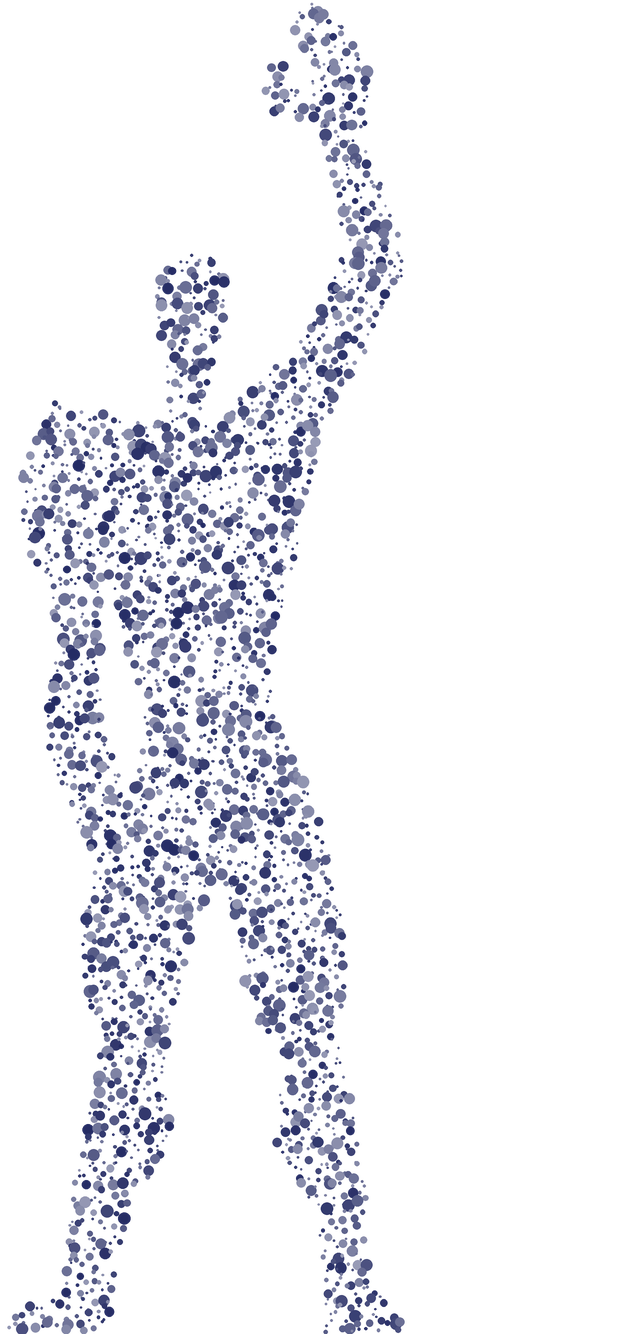
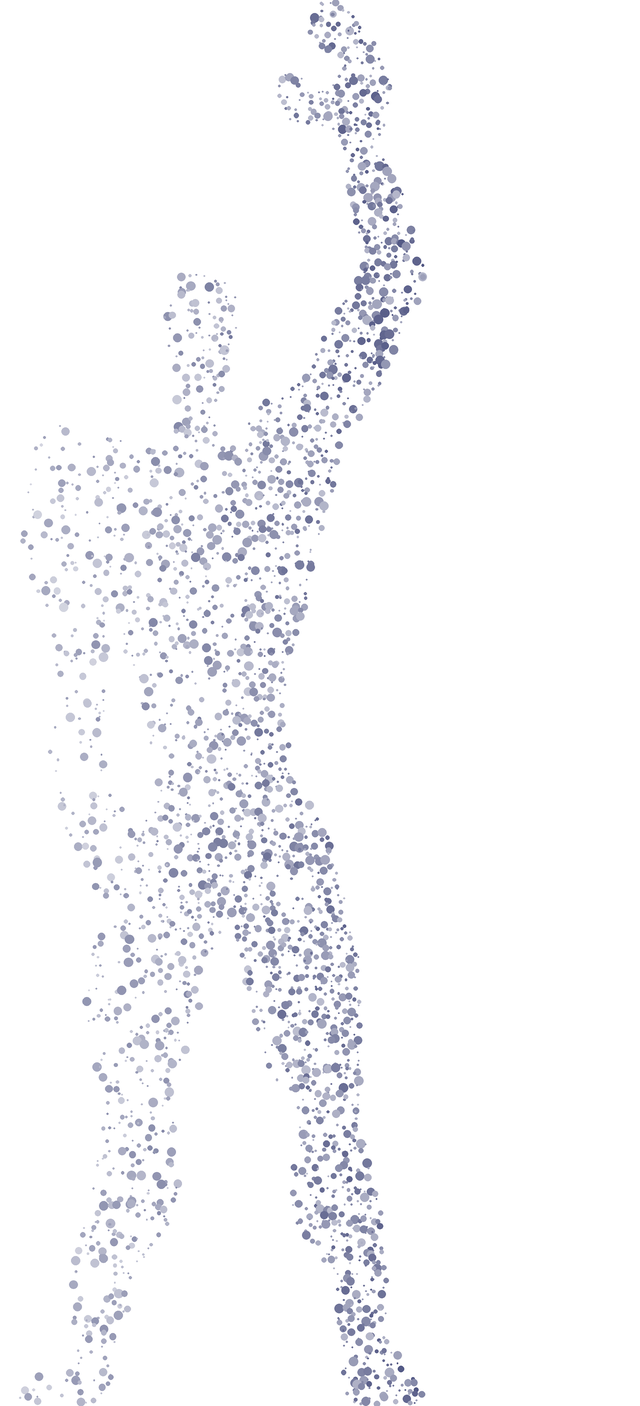
Two-segment arm, dithered fade, golden-section plate
- 팔을 상완/전완 2단 관절로 분리해 회전 (_src/tools/make_modulor.py)
  상완 0/-17/-38/-62°, 전완은 팔꿈치에서 반대로 42% 되돌려 손이 늦게 내려옴
  → 막대기처럼 돌던 이전보다 관절이 접히는 느낌
- 페이드를 CSS 마스크에서 하프톤 생성 단계로 이동
  왼쪽일수록 점을 확률적으로 솎아내고(keep = .12 + .88·x^1.05) 알파도 낮춤
  → 매끄러운 그라디언트가 아니라 점이 흩어지며 사라지는 디더링
  점 밀도도 2,700 → 3,200개로 올림 (격자 8.4 → 5.6)
- 인체를 수직선 쪽으로 90px 이동 (이제 축과 26px 겹침)
- 배경 플레이트 추가: 축을 오른쪽 변으로 삼는 황금 사각형, 내부 정사각형,
  황금나선 첫 사분원, 대각선 2개, 노드 높이의 등록 십자 8개
- 스크롤 잠금 640 → 380ms, 누적 임계 42 → 34px

Changed region(s): [[0.0, 0.0, 0.6562, 1.0]]

diff --git a/assets/js/hero.js b/assets/js/hero.js
@@ -52,11 +52,52 @@
     gridEl.className = 'hero-grid';
     gridEl.setAttribute('aria-hidden', 'true');
     heroEl.prepend(gridEl);
+    const pl = document.createElementNS('http://www.w3.org/2000/svg', 'svg');
+    pl.setAttribute('class', 'hero-plate');
+    pl.setAttribute('aria-hidden', 'true');
+    heroEl.prepend(pl);
     const fg = document.createElement('div');
     fg.className = 'hero-figure';
     fg.setAttribute('aria-hidden', 'true');
     heroEl.prepend(fg);
   }
+  /* ---------- 배경 플레이트: 황금분할 작도 ---------- */
+  function drawPlate() {
+    const pl = heroEl && heroEl.querySelector('.hero-plate');
+    if (!pl) return;
+    const hb = heroEl.getBoundingClientRect();
+    const rr = rail.getBoundingClientRect();
+    const W = hb.width, H = hb.height;
+    const cx = rr.left - hb.left + rr.width / 2;
+    const top = rr.top - hb.top, RH = rr.height;
+    pl.setAttribute('viewBox', `0 0 ${W} ${H}`);
+    pl.setAttribute('width', W); pl.setAttribute('height', H);
+
+    const p = [];
+    /* 축을 오른쪽 변으로 삼는 황금 사각형 */
+    const gw = RH / PHI;
+    p.push(`<rect class="pl-rect" x="${cx - gw}" y="${top}" width="${gw}" height="${RH}"/>`);
+    /* 그 안의 정사각형과 남는 φ 사각형 */
+    const sq = Math.min(gw, RH);
+    p.push(`<rect class="pl-rect thin" x="${cx - gw}" y="${top}" width="${gw}" height="${gw}"/>`);
+    /* 정사각형에서 뻗는 사분원 — 황금나선의 첫 획 */
+    p.push(`<path class="pl-arc" d="M ${cx - gw} ${top + gw} A ${gw} ${gw} 0 0 0 ${cx} ${top}"/>`);
+    /* 대각선 */
+    p.push(`<line class="pl-diag" x1="${cx - gw}" y1="${top}" x2="${cx}" y2="${top + RH}"/>`);
+    p.push(`<line class="pl-diag" x1="${cx - gw}" y1="${top + RH}" x2="${cx}" y2="${top}"/>`);
+    /* 축 오른쪽 — 미디어 쪽 φ 사각형 */
+    const rw = Math.min(W - cx - 8, RH / PHI);
+    p.push(`<rect class="pl-rect thin" x="${cx}" y="${top}" width="${rw}" height="${RH}"/>`);
+    /* 노드 높이마다 작은 등록 십자 */
+    M.pos.forEach((q) => {
+      const y = top + q * RH;
+      [cx - gw, cx + rw].forEach(x => {
+        p.push(`<path class="pl-cross" d="M ${x - 3} ${y} H ${x + 3} M ${x} ${y - 3} V ${y + 3}"/>`);
+      });
+    });
+    pl.innerHTML = p.join('');
+  }
+
   function drawGrid() {
     if (!gridEl || !heroEl) return;
     const hr = heroEl.getBoundingClientRect();
@@ -97,7 +138,7 @@
     host.style.height = h + 'px';
     host.style.width  = w + 'px';
     host.style.top    = (rr.top - hb.top - rr.height * 0.02) + 'px';
-    host.style.left   = (rr.left - hb.left - w - 64) + 'px';
+    host.style.left   = (rr.left - hb.left - w + 26) + 'px';
   }
 
   /* ---------- 가운데 레일 ---------- */
@@ -250,7 +291,7 @@
     const step = down => {
       lock = true; acc = 0;
       go(cur + (down ? 1 : -1));
-      setTimeout(() => { lock = false; }, 640);
+      setTimeout(() => { lock = false; }, 380);
     };
     addEventListener('wheel', e => {
       if (scrollY > 2) return;                      // 히어로를 벗어나면 일반 스크롤
@@ -260,7 +301,7 @@
       e.preventDefault();
       if (lock) return;
       acc += e.deltaY;
-      if (Math.abs(acc) < 42) return;               // 관성 스크롤로 건너뛰지 않게
+      if (Math.abs(acc) < 34) return;               // 관성 스크롤로 건너뛰지 않게
       step(down);
     }, { passive: false });
 
@@ -277,7 +318,7 @@
     }, { passive: false });
   }
 
-  drawArcs(); drawGrid(); drawFigure(); apply();
-  if (window.ResizeObserver) new ResizeObserver(() => { drawArcs(); drawGrid(); drawFigure(); apply(); }).observe(rail);
-  else addEventListener('resize', () => { drawArcs(); drawGrid(); drawFigure(); apply(); });
+  drawArcs(); drawPlate(); drawGrid(); drawFigure(); apply();
+  if (window.ResizeObserver) new ResizeObserver(() => { drawArcs(); drawPlate(); drawGrid(); drawFigure(); apply(); }).observe(rail);
+  else addEventListener('resize', () => { drawArcs(); drawPlate(); drawGrid(); drawFigure(); apply(); });
 })();

diff --git a/assets/css/style.css b/assets/css/style.css
@@ -253,12 +253,15 @@ img{max-width:100%; display:block}
    ============================================================ */
 :root{ --gap-in:.4rem; --rail-w:88px; }
 
+.hero-plate{position:absolute; inset:0; pointer-events:none; z-index:0; overflow:visible}
+.pl-rect{fill:none; stroke:var(--line); stroke-width:1; opacity:.75}
+.pl-rect.thin{stroke-width:.7; opacity:.45}
+.pl-arc{fill:none; stroke:var(--point); stroke-width:.8; opacity:.2}
+.pl-diag{stroke:var(--ink-3); stroke-width:.5; opacity:.18; stroke-dasharray:3 5}
+.pl-cross{stroke:var(--ink-3); stroke-width:.8; opacity:.4; fill:none}
+
 .hero-grid{position:absolute; inset:0; pointer-events:none; z-index:0}
-.hero-figure{
-  position:absolute; pointer-events:none; z-index:0; opacity:.26;
-  -webkit-mask-image:linear-gradient(to right, transparent 0%, rgba(0,0,0,.22) 26%, rgba(0,0,0,.7) 62%, #000 100%);
-  mask-image:linear-gradient(to right, transparent 0%, rgba(0,0,0,.22) 26%, rgba(0,0,0,.7) 62%, #000 100%);
-}
+.hero-figure{position:absolute; pointer-events:none; z-index:0; opacity:.5}
 .hero-figure .pose{
   position:absolute; inset:0; width:100%; height:100%; object-fit:contain;
   display:block; opacity:0; transition:opacity .5s ease;
@@ -268,7 +271,7 @@ img{max-width:100%; display:block}
 @media (max-width:980px){.hero-figure{display:none}}
 .grid-line{position:absolute; height:1px; background:var(--line); opacity:.4}
 .grid-line.major{opacity:.8}
-.hero > *:not(.hero-grid):not(.hero-figure){position:relative; z-index:1}
+.hero > *:not(.hero-grid):not(.hero-figure):not(.hero-plate){position:relative; z-index:1}
 
 .hero{
   position:relative;

diff --git a/index.html b/index.html
@@ -8,7 +8,7 @@
 <link rel="preconnect" href="https://fonts.googleapis.com">
 <link rel="preconnect" href="https://fonts.gstatic.com" crossorigin>
 <link href="https://fonts.googleapis.com/css2?family=Inter:wght@400;500;600;700&family=Newsreader:ital,wght@0,400;0,500;1,400&display=swap" rel="stylesheet">
-<link rel="stylesheet" href="assets/css/style.css?v=154101">
+<link rel="stylesheet" href="assets/css/style.css?v=155008">
 </head>
 <body>
 
@@ -41,8 +41,8 @@
   <main id="panel" class="panel is-active"></main>
 </div>
 
-<script src="data/site.js?v=154101"></script>
-<script src="assets/js/hero.js?v=154101"></script>
-<script src="assets/js/app.js?v=154101"></script>
+<script src="data/site.js?v=155008"></script>
+<script src="assets/js/hero.js?v=155008"></script>
+<script src="assets/js/app.js?v=155008"></script>
 </body>
 </html>
